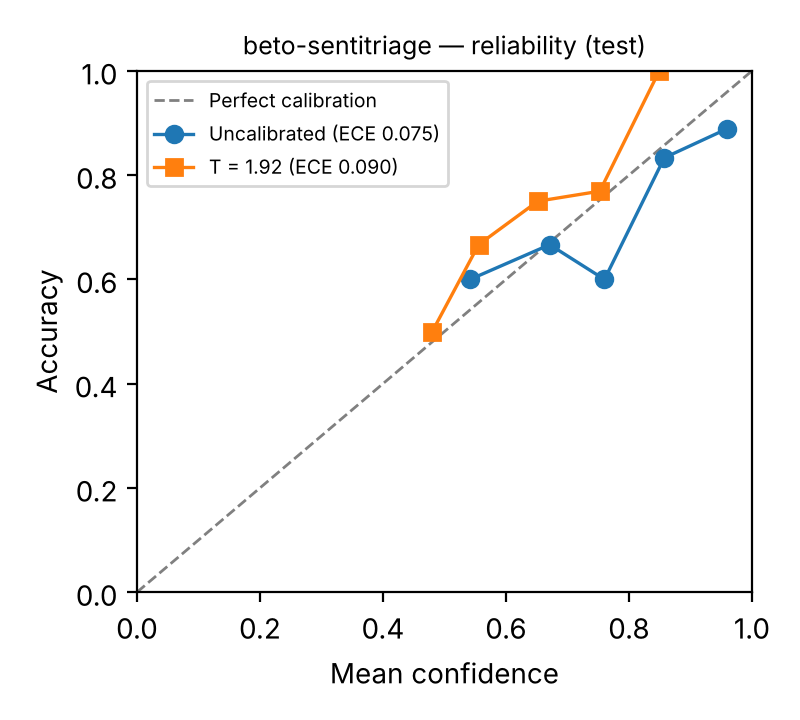
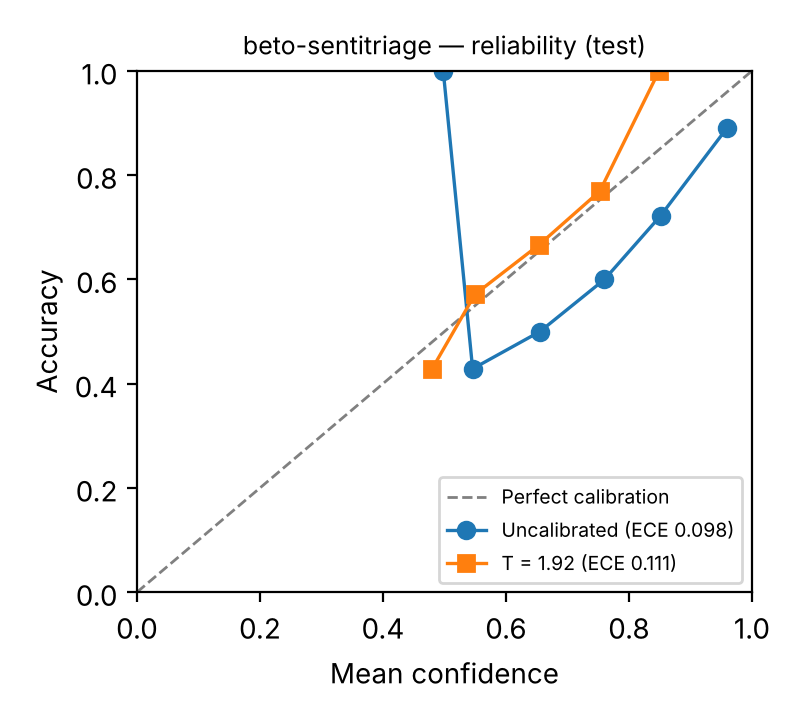
exp(colombia): etiqueta final acordada y evaluación sobre las 90 reseñas
- 11 desacuerdos resueltos por discusión entre los anotadores
- BETO: accuracy 0.789, macro-F1 0.690 (IC95 0.577-0.793), recall negativo 0.82
- Con tau de tuits: cobertura 0.86 y riesgo 0.21 -> 0.16
- La calibración ajustada con tuits no mejora el ECE en este dominio (0.098 -> 0.111)

diff --git a/results/colombia/gold/summary.md b/results/colombia/gold/summary.md
@@ -1,6 +1,6 @@
-# Colombian restaurant comments — gold (n = 79)
+# Colombian restaurant comments — gold (n = 90)
 
 | Model | Macro-F1 tweets → Colombia | Recall NEG | ECE (cal.) | AURC | Coverage at τ | Sel. risk | Missed complaints (no abst. → policy) |
 |---|---|---|---|---|---|---|---|
-| baseline-tfidf-lr | 53.9 → **63.0** | 0.73 | 0.194 | 0.153 | 0.37 | 0.10 | 14 → 1 |
-| beto-sentitriage | 68.8 → **68.2** | 0.85 | 0.090 | 0.054 | 0.89 | 0.13 | 8 → 6 |
+| baseline-tfidf-lr | 53.9 → **62.3** | 0.70 | 0.164 | 0.181 | 0.36 | 0.16 | 17 → 2 |
+| beto-sentitriage | 68.8 → **69.0** | 0.82 | 0.111 | 0.072 | 0.86 | 0.16 | 10 → 7 |
